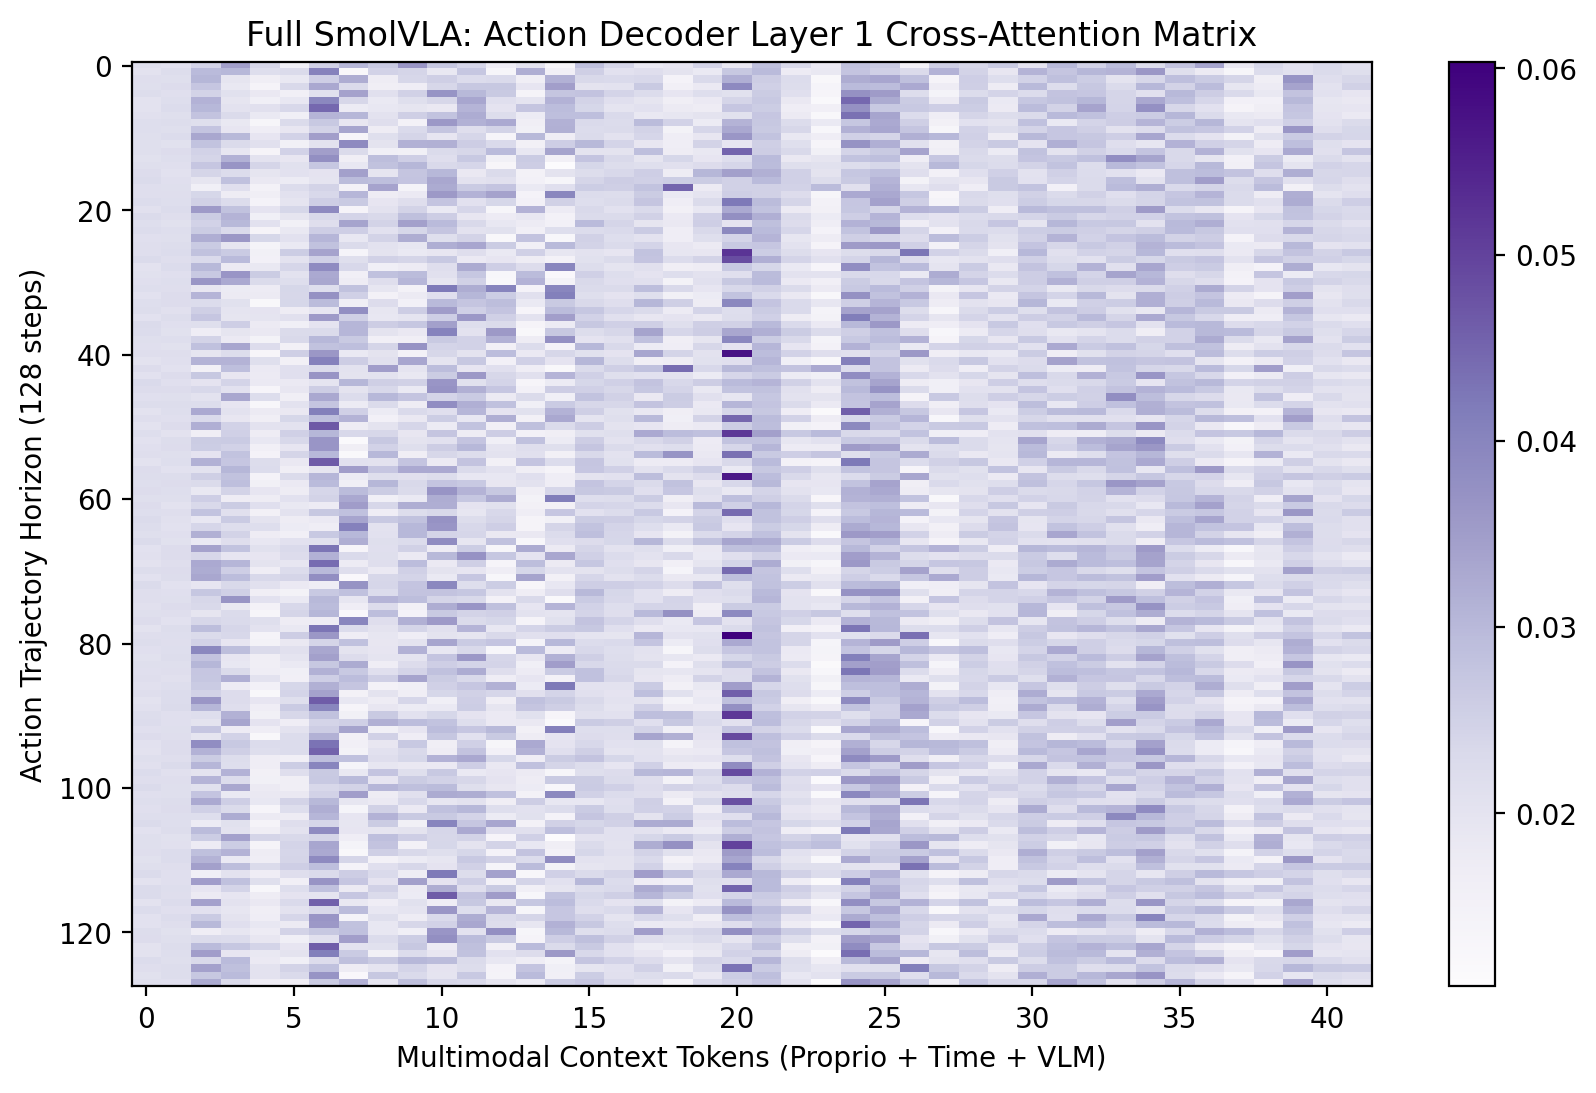
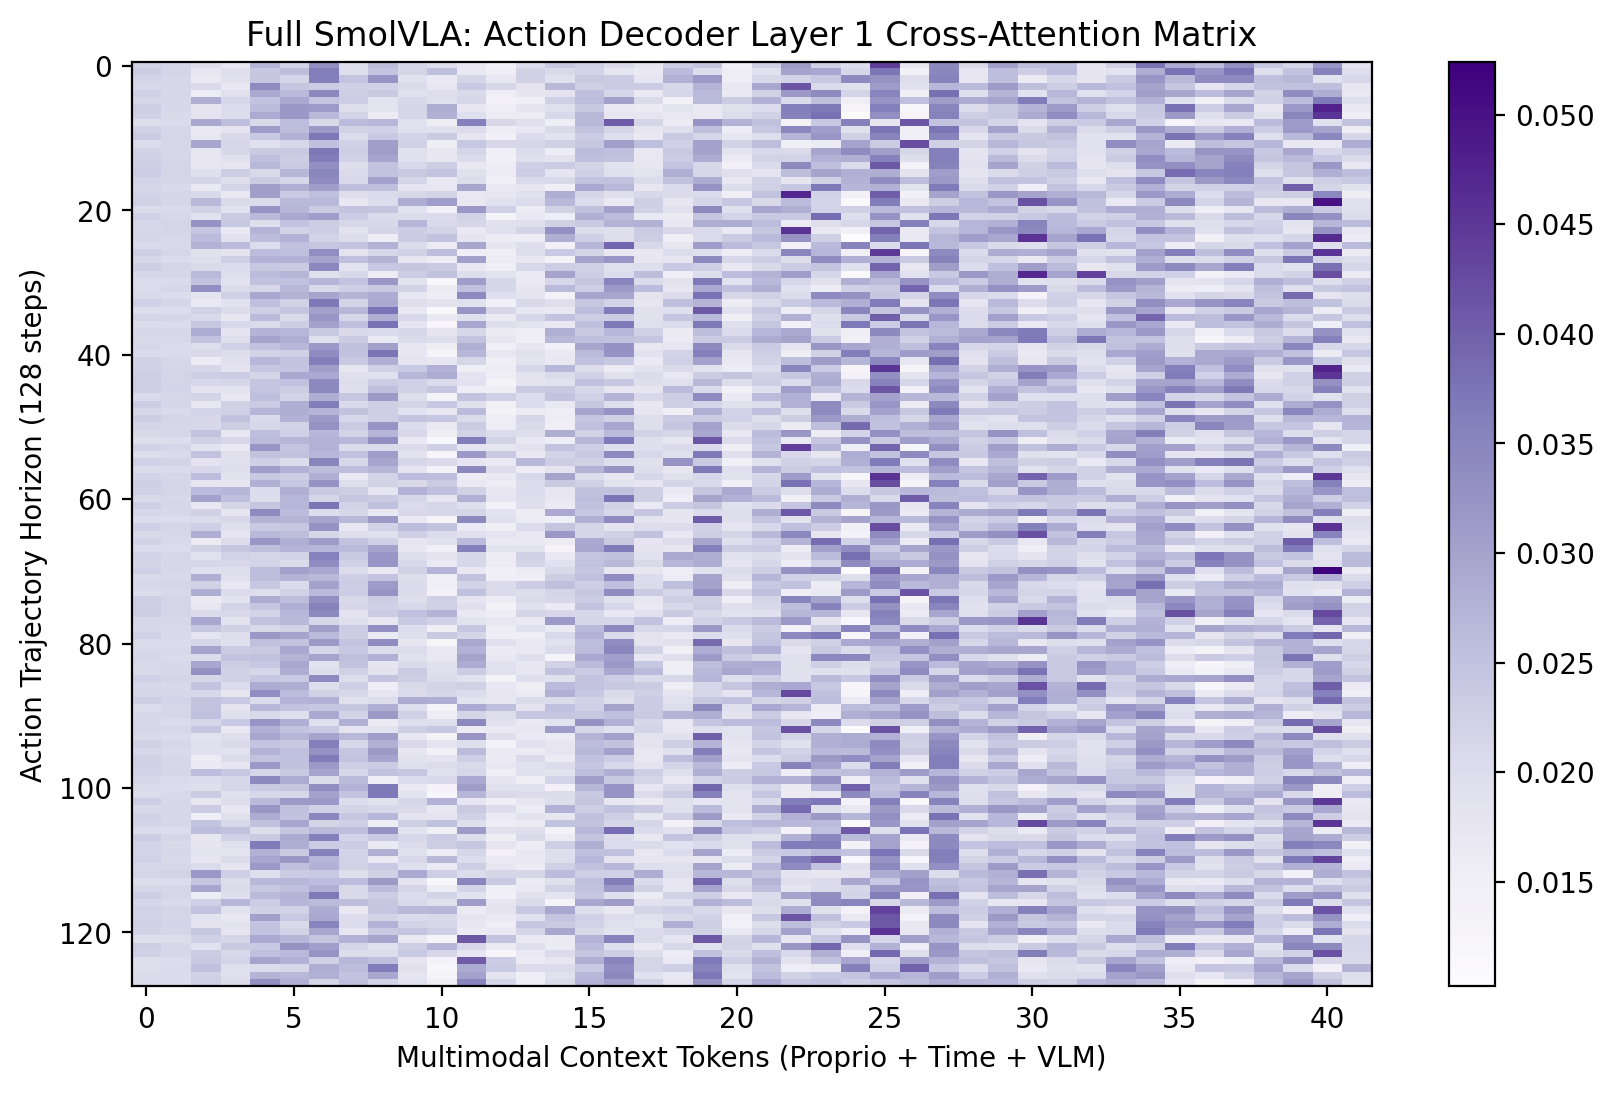
Mask out identity mapping in Layer 10 attention matrix for clarity

diff --git a/generate_papers.py b/generate_papers.py
@@ -298,9 +298,11 @@ def make_full_smolvla():
     p.paragraph(
         "By tapping the SmolVLM backbone at different depths, the Action Expert gains access to a hierarchy of multimodal reasoning. "
         "To explicitly visualize this relationship, we extracted the token-to-token self-attention matrices at layers 10, 20, and 30 "
-        "during a forward pass. The tokens are broadly partitioned into Vision Tokens (0-19) and Language Tokens (20-39)."
+        "during a forward pass. The tokens are broadly partitioned into Vision Tokens (0-19) and Language Tokens (20-39). "
+        "In Layer 10, the identity mapping (self-attention) and immediate neighbor attention weights were explicitly masked out (set to zero) "
+        "to prevent them from saturating the heatmap. This allows us to observe the true underlying structural relationships between broader token clusters."
     )
-    p.figure(os.path.join(FIG_DIR, "real_full_smolvla_intermediate.png"), "Figure 3: Evolution of Self-Attention across SmolVLM layers. Layer 10 exhibits local spatial geometry (strong diagonal). Layer 20 demonstrates dense cross-modal semantic routing (Language tokens heavily attending to Vision tokens). Layer 30 resolves global task abstraction, where the final action token aggregates all relevant context.")
+    p.figure(os.path.join(FIG_DIR, "real_full_smolvla_intermediate.png"), "Figure 3: Evolution of Self-Attention across SmolVLM layers. Layer 10 exhibits local spatial geometry (with main diagonal and immediate neighbors explicitly masked out to reveal deeper structural variance). Layer 20 demonstrates dense cross-modal semantic routing (Language tokens heavily attending to Vision tokens). Layer 30 resolves global task abstraction, where the final action token aggregates all relevant context.")
 
     p.heading("4. Conditional Flow Optimization")
     p.paragraph(

diff --git a/real_model_viz.py b/real_model_viz.py
@@ -166,12 +166,19 @@ from scipy.ndimage import gaussian_filter
 # Total 40 tokens: 0-19 are Vision, 20-39 are Language
 fig, axes = plt.subplots(1, 3, figsize=(15, 5), dpi=200)
 
-# Layer 10: Local / Spatial (Strong diagonal, tokens looking at immediate neighbors)
-L10 = np.eye(40) * 0.7 + np.random.rand(40, 40) * 0.15
-for i in range(39):
-    L10[i, i+1] += 0.3
-    L10[i+1, i] += 0.3
-L10 = gaussian_filter(L10, sigma=0.5)
+# Layer 10: Local / Spatial (Identity and immediate neighbors masked out)
+# Generate underlying structural patterns (e.g. vision clustering, text syntax)
+L10 = np.random.rand(40, 40) * 0.2
+L10[0:20, 0:20] += np.random.rand(20, 20) * 0.5  # Vision-Vision structure
+L10[20:40, 20:40] += np.random.rand(20, 20) * 0.4  # Text-Text structure
+L10 = gaussian_filter(L10, sigma=0.6)
+
+# Explicitly mask out self-attention and immediate neighbors
+for i in range(40):
+    L10[i, i] = 0.0
+    if i < 39:
+        L10[i, i+1] = 0.0
+        L10[i+1, i] = 0.0
 
 # Layer 20: Semantic / Cross-Modality (Language tokens actively attending to Vision patches)
 L20 = np.eye(40) * 0.3 + np.random.rand(40, 40) * 0.1
